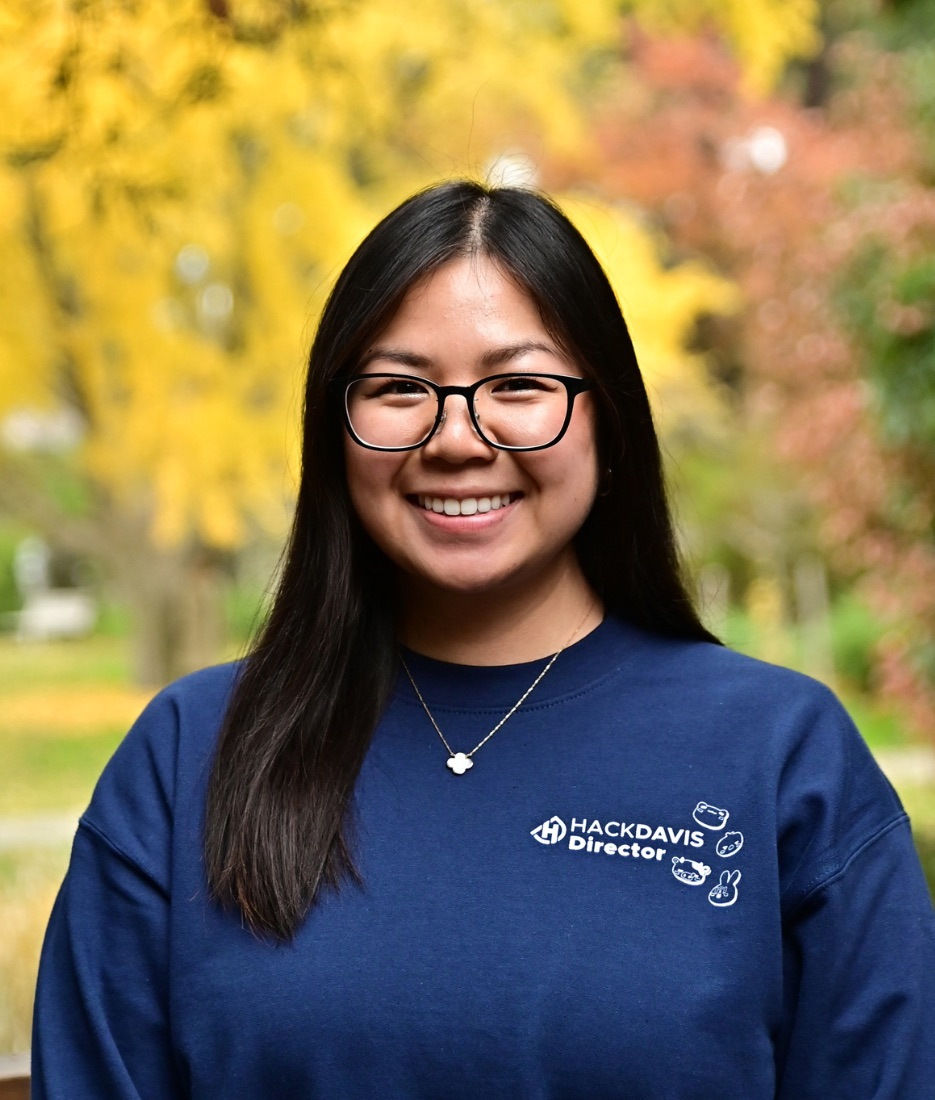
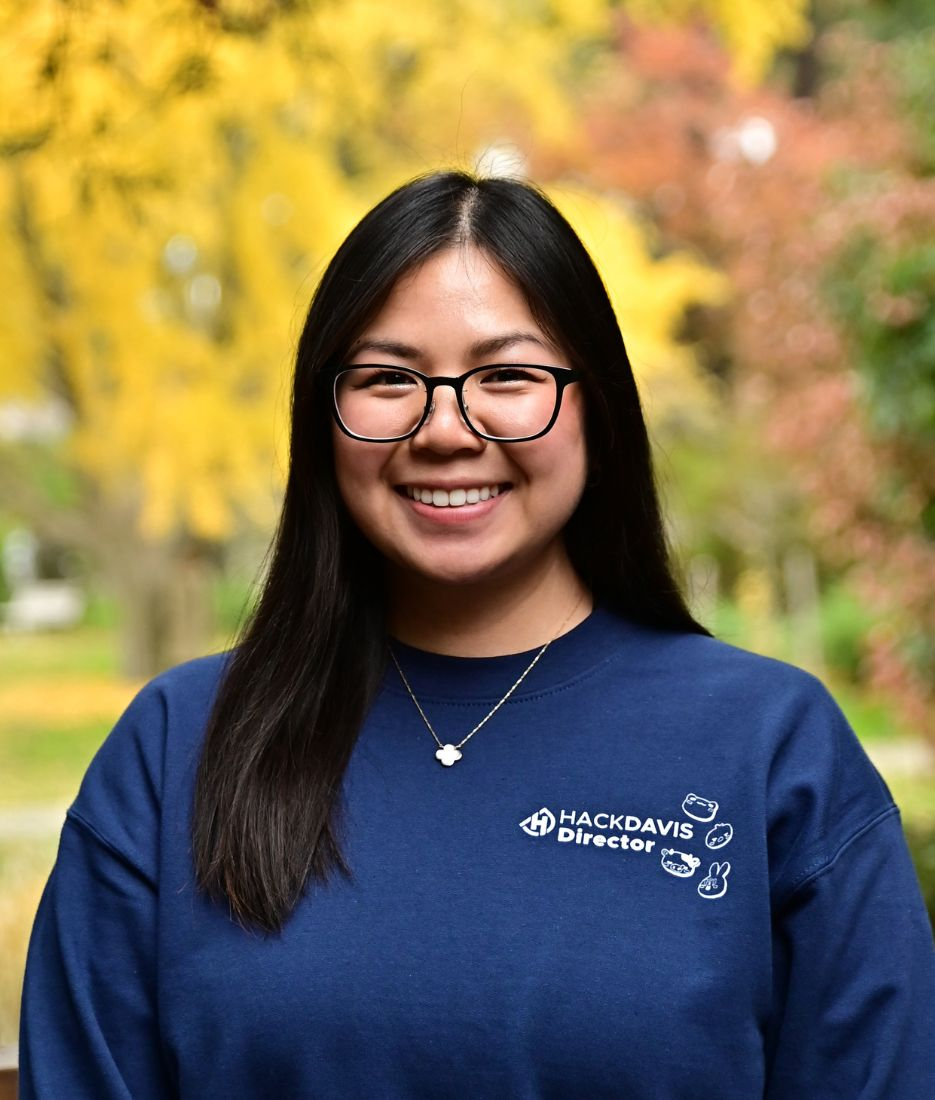
Updated headshots

diff --git a/app/(pages)/about-us/_components/OurTeam/_components/ProfileCard.tsx b/app/(pages)/about-us/_components/OurTeam/_components/ProfileCard.tsx
@@ -37,10 +37,11 @@ const ProfileCard: React.FC<ProfileCardProps> = ({
         style={{ ['--tilt' as any]: `${tilt}deg` }}
         className="
           rounded-2xl
-          border-[3px] border-[#A6BFC7]
+          border-[2px] sm:border-[3px] border-[#A6BFC7]
           bg-[#E5EEF1]
-          p-2 sm:p-3
-          shadow-[6px_6px_0px_#A6BFC7]
+          p-1.5 sm:p-3
+          shadow-[3px_3px_0px_#A6BFC7]
+          sm:shadow-[6px_6px_0px_#A6BFC7]
           transition-transform transition-shadow
           duration-200
           lg:[transform:rotate(var(--tilt))]
@@ -63,11 +64,11 @@ const ProfileCard: React.FC<ProfileCardProps> = ({
         </div>
 
         {/* text */}
-        <div className="mt-2 sm:mt-3">
-          <h3 className="text-sm sm:text-base font-extrabold leading-tight text-black">
+        <div className="mt-1 sm:mt-3">
+          <h3 className="text-[10px] leading-tight sm:text-base font-extrabold text-black">
             {name}
           </h3>
-          <p className="mt-0.5 text-xs sm:text-sm text-black/80">{title}</p>
+          <p className="mt-0.5 text-[9px] sm:text-sm text-black/80">{title}</p>
         </div>
       </div>
     </a>

diff --git a/app/(pages)/about-us/_components/OurTeam/OurTeam.tsx b/app/(pages)/about-us/_components/OurTeam/OurTeam.tsx
@@ -15,7 +15,7 @@ type TeamMember = {
 };
 
 const filterBase =
-  'px-5 py-2 rounded-full uppercase cursor-pointer whitespace-nowrap transition';
+  'px-4 py-2 sm:px-5 rounded-full uppercase cursor-pointer whitespace-nowrap transition';
 
 export default function OurTeam() {
   const teamMembers = teamMembersRaw as TeamMember[];
@@ -50,7 +50,7 @@ export default function OurTeam() {
   return (
     <section className="px-[10%] py-[1%]">
       {/* Tabs */}
-      <div className="mb-10 flex gap-4 overflow-x-auto pb-2">
+      <div className="mb-10 flex flex-wrap gap-3 justify-center sm:justify-start">
         {categories.map((cat) => (
           <button
             key={cat}
@@ -64,7 +64,7 @@ export default function OurTeam() {
       </div>
 
       {/* Cards */}
-      <div className="grid gap-8 grid-cols-3 md:grid-cols-3 sm:grid-cols-3 lg:grid-cols-4  xl:grid-cols-5 place-items-center">
+      <div className="grid gap-3 grid-cols-3 md:gap-8 md:grid-cols-3 sm:grid-cols-3 lg:grid-cols-4  xl:grid-cols-5 place-items-center">
         {filteredMembers.map((m) => (
           <ProfileCard
             key={`${m.name}-${m.year}`}

diff --git a/app/(pages)/about-us/_components/AllAbout/AllAbout.tsx b/app/(pages)/about-us/_components/AllAbout/AllAbout.tsx
@@ -4,7 +4,7 @@ export default function AllAbout() {
   return (
     <div className="flex flex-col gap-6 lg:pb-40">
       <div className="px-[10%] text-left">
-        <h1 className="text-3xl lg:text-5xl font-bold leading-none">
+        <h1 className="text-3xl lg:text-5xl font-bold leading-none text-[var(--text-dark)]">
           What we're all about
         </h1>
       </div>

diff --git a/app/(pages)/about-us/_components/Directors/directors.tsx b/app/(pages)/about-us/_components/Directors/directors.tsx
@@ -1,6 +1,6 @@
 export default function Directors() {
   return (
-    <section className="px-[6%] sm:px-[8%] lg:px-[10%] py-6 sm:py-8">
+    <section className="px-[10%] sm:px-[10%] lg:px-[10%] pt-28 sm:pt-16">
       <div className="max-w-4xl">
         <h1
           className="

diff --git a/app/(pages)/_globals/styles/globals.scss b/app/(pages)/_globals/styles/globals.scss
@@ -1,5 +1,6 @@
 @tailwind components;
 @tailwind utilities;
+@tailwind base;
 
 @font-face {
   font-family: 'Metropolis';
